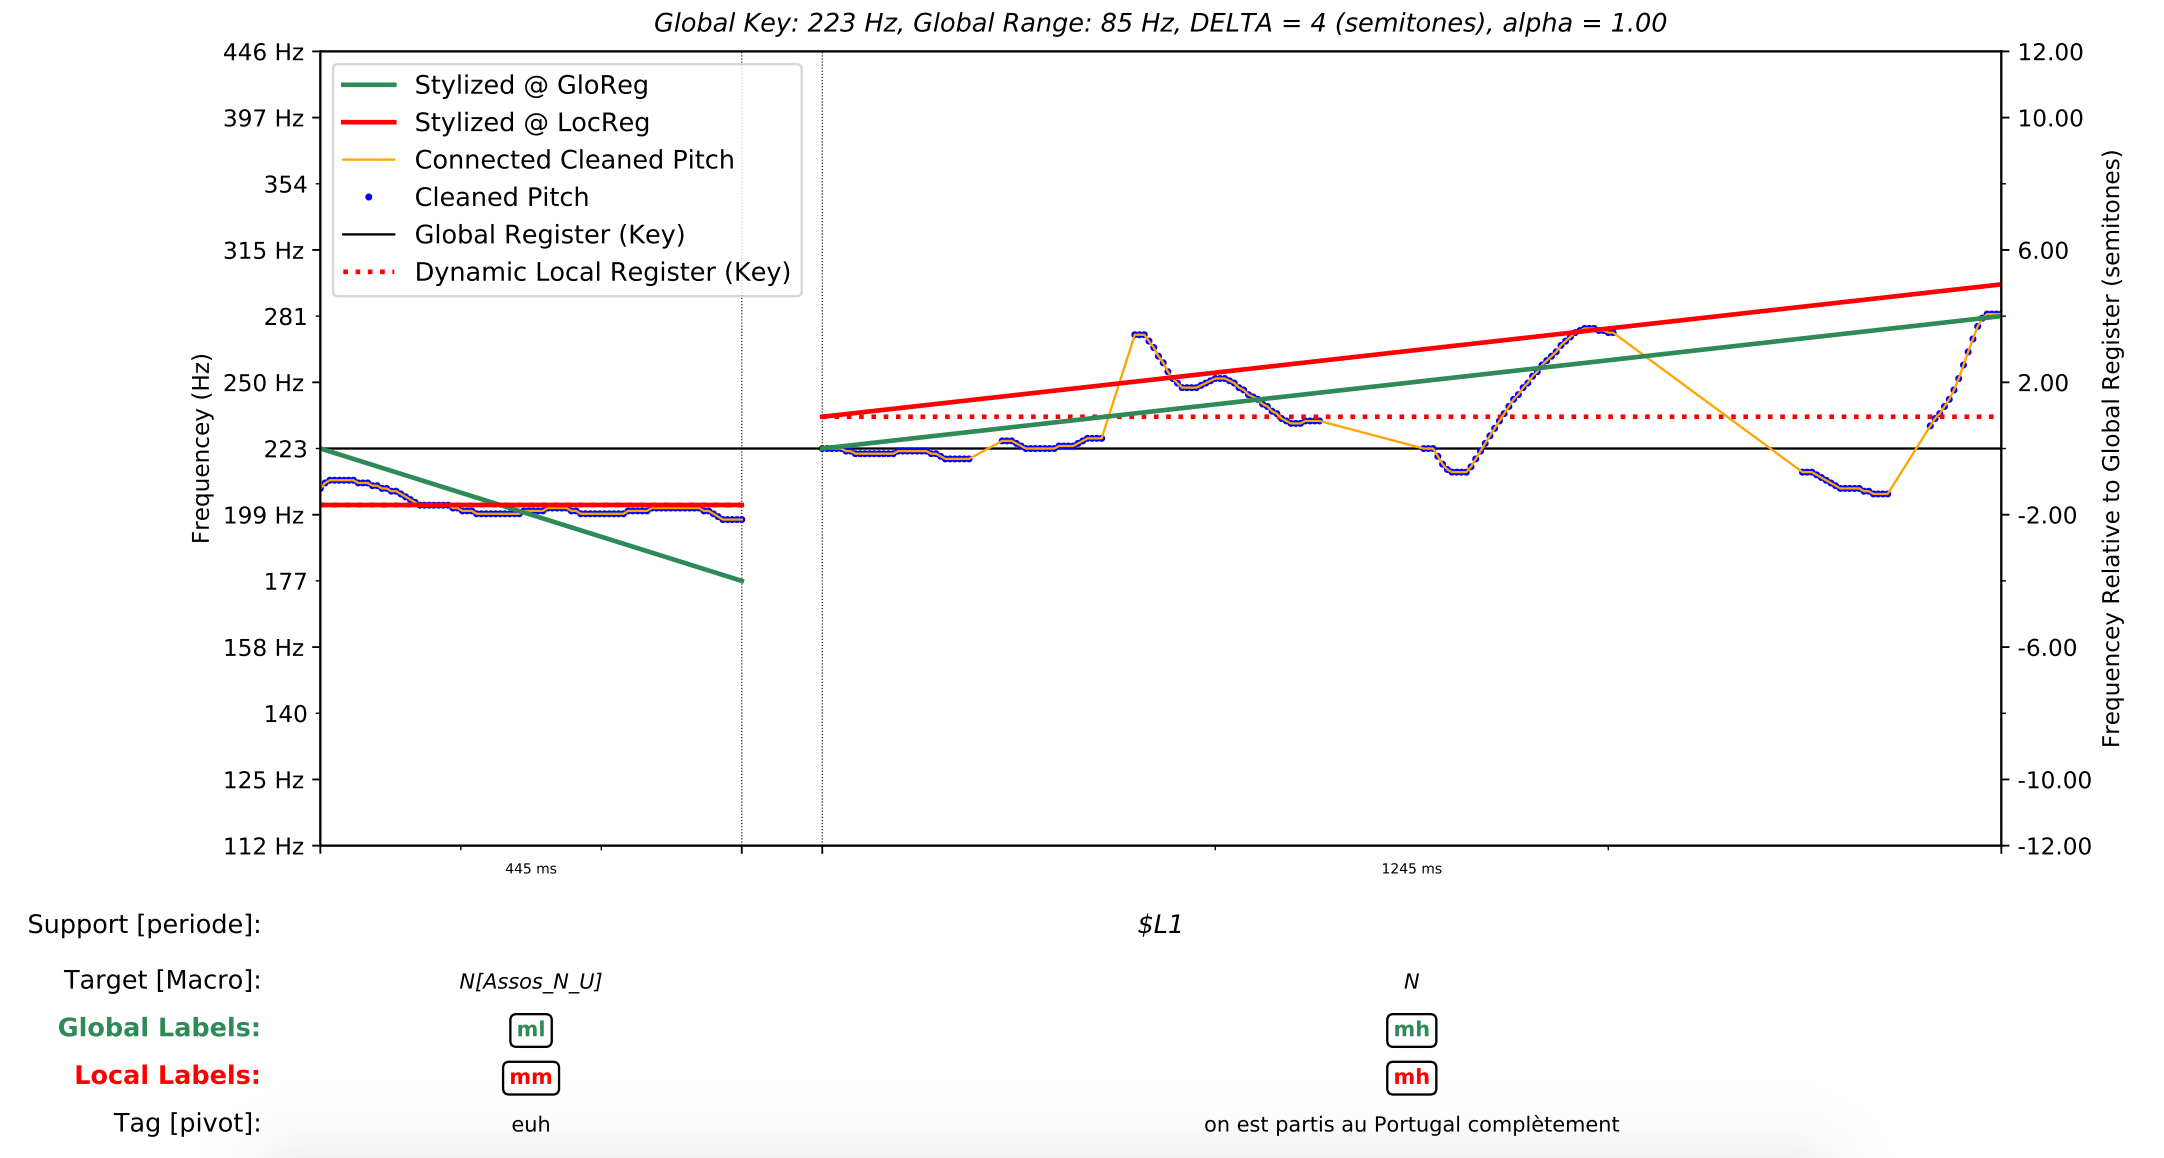
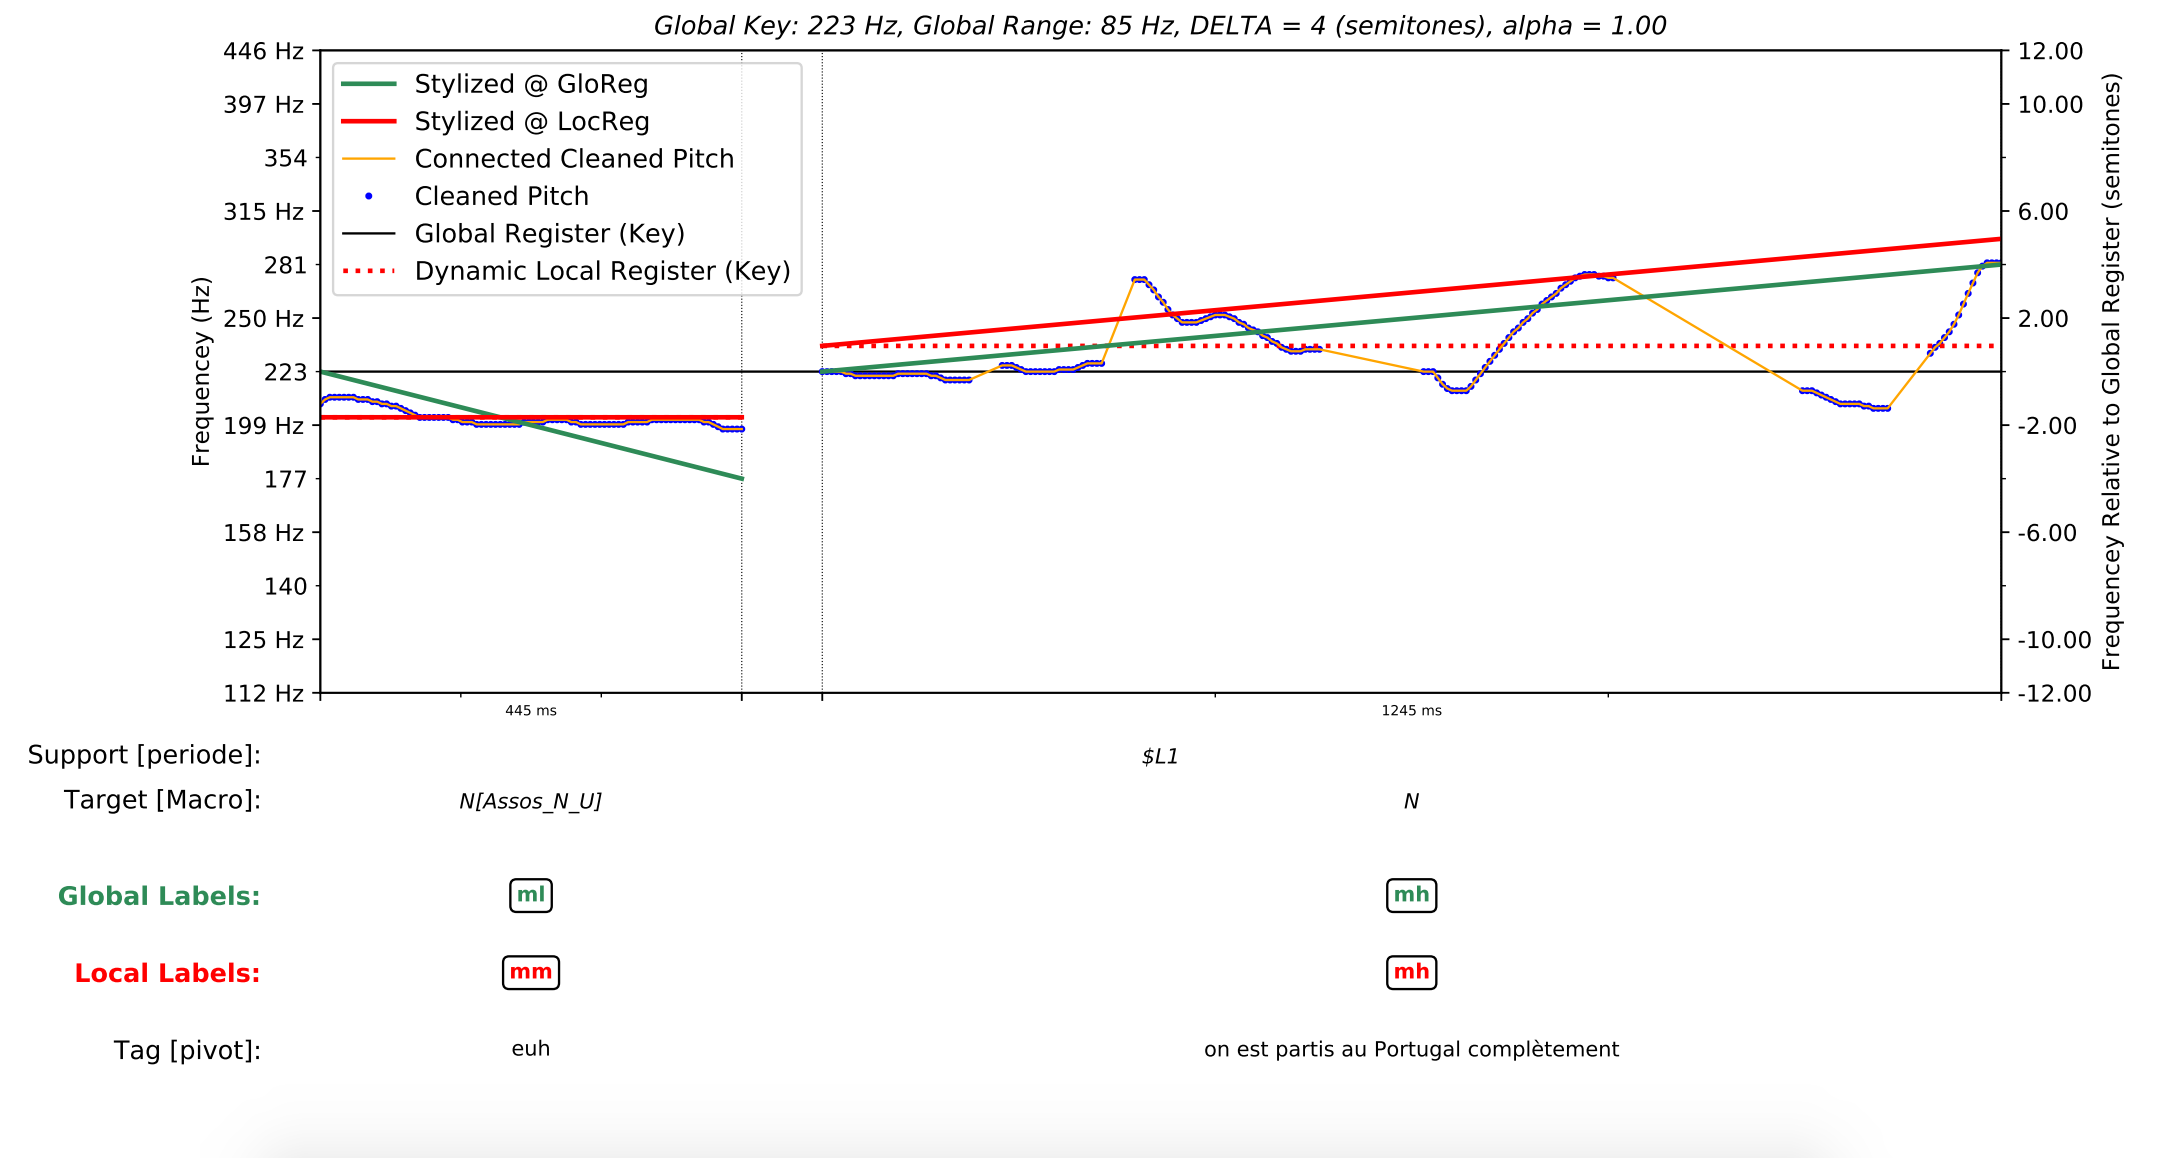
add very naive auto-wrap in label of figures

diff --git a/SLAM_utils/stylize.py b/SLAM_utils/stylize.py
@@ -6,7 +6,7 @@ import numpy as np
 import SLAM_utils.TextGrid as tg
 from SLAM_utils import praatUtil
 from SLAM_utils import swipe
-import os, math, sys
+import os, math, sys, textwrap
 
 
 minDELTA=4
@@ -119,6 +119,7 @@ def show_stylization(time_org,original,smooth,style1,style2,targetIntv,register,
     alphaGlo = alpha
     alphaLoc = alpha
     bbox_props = dict(boxstyle="round", fc="w")
+    
     
     fig = figIn
     ax = fig.gca()
@@ -354,7 +355,7 @@ def show_stylization(time_org,original,smooth,style1,style2,targetIntv,register,
     if is_new_support:
           ax.set_ylabel('Frequencey (Hz)')
     
-    fig.subplots_adjust(top=0.95,bottom=0.27,left=0.15, right=0.925)
+    fig.subplots_adjust(top=0.95,bottom=0.4,left=0.15, right=0.925)
     xlim=ax.get_xlim()
     diff_xlim = max(xlim)-min(xlim)
     diff_ylim = max(ylim)-min(ylim)
@@ -364,10 +365,12 @@ def show_stylization(time_org,original,smooth,style1,style2,targetIntv,register,
     labelsLeftPos = -0.03
     
     # duration label
-    ax.annotate('{:.0f} ms'.format(xticks_major[-1]-xticks_major[0]),xy=(x2/2+x1/2,-0.035),xycoords='axes fraction',fontsize=6,horizontalalignment='center')
+    duration = (xticks_major[-1]-xticks_major[0])
+    new_w = int(math.floor(duration / 10 / 2.5))
+    ax.annotate('{:.0f} ms'.format(duration),xy=(x2/2+x1/2,-0.035),xycoords='axes fraction',fontsize=6,horizontalalignment='center')
     if is_new_support:
        # support label
-       ax.annotate(supp_mark,xy=(0.5,-0.13+.04-0.02),xycoords=('axes fraction','axes fraction'),fontsize=11,fontweight='medium',horizontalalignment='center',fontstyle='italic', wrap=True)
+       ax.annotate(supp_mark,xy=(0.5,-0.13+.04-0.02),xycoords=('axes fraction','axes fraction'),fontsize=9,fontweight='medium',horizontalalignment='center',fontstyle='italic', wrap=True)
        SupportLabel = 'Support'
        if supportName: SupportLabel+=' [{}]'.format(supportName)
        SupportLabel += ': '
@@ -375,31 +378,35 @@ def show_stylization(time_org,original,smooth,style1,style2,targetIntv,register,
        fontweight='normal',horizontalalignment='right',fontstyle='normal', wrap=True)
     
     # target label
-    ax.annotate(targetIntv.mark(),xy=(.5*xticks_major[0]+.5*xticks_major[1],-0.13+.04-0.08-0.01),xycoords=('data','axes fraction'),fontsize=9,fontweight='medium',horizontalalignment='center',fontstyle='italic', wrap=True)
+    txt = textwrap.fill(targetIntv.mark(),new_w)
+    ax.annotate(txt,xy=(.5*xticks_major[0]+.5*xticks_major[1],-0.13+.04-0.08-0.01),xycoords=('data','axes fraction'),fontsize=9,fontweight='medium',horizontalalignment='center',fontstyle='italic', wrap=True)
     if is_new_support:
           TargetLabel = 'Target'
           if targetName: TargetLabel+=' [{}]'.format(targetName)
           TargetLabel += ': '
-          ax.annotate(TargetLabel,xy=(labelsLeftPos,-0.13+.04-0.08-0.01),xycoords=('axes fraction','axes fraction'),fontsize=11,fontweight='normal',horizontalalignment='right',fontstyle='normal')
+          ax.annotate(TargetLabel      ,xy=(labelsLeftPos,-0.13+.04-0.08-0.01)              ,xycoords=('axes fraction','axes fraction'),fontsize=11,fontweight='normal'  ,horizontalalignment='right')
+          #ax.annotate('Global Labels: ',xy=(labelsLeftPos,-0.19+.04+.02-0.08-0.01-0.02-0.06),              xycoords=('axes fraction','axes fraction'),fontsize=11,fontweight='semibold',horizontalalignment='right',color=color_style_styl)
     
     # its stlization in symbolic form
     if is_new_support:
-      ax.annotate('Global Labels: ',xy=(labelsLeftPos,-0.19+.04+.02-0.08-0.01-0.02),xycoords=('axes fraction','axes fraction'),fontsize=11,fontweight='semibold',horizontalalignment='right',color=color_style_styl)
-    ax.annotate(style1,xy=(.5*xticks_major[0]+.5*xticks_major[1],-0.19+.04+.02-0.08-0.01-0.02),xycoords=('data','axes fraction'),fontsize=9,fontweight='semibold',horizontalalignment='center',color=color_style_styl, wrap=True,bbox=bbox_props)
-    txt_style2= style2
+          ax.annotate('Global Labels: ',xy=(labelsLeftPos,-0.19+.04+.02-0.08-0.01-0.02-0.06),xycoords=('axes fraction','axes fraction'),fontsize=11,fontweight='semibold',horizontalalignment='right',color=color_style_styl,verticalalignment='top')
+    ax.annotate(textwrap.fill(style1,new_w),xy=(.5*xticks_major[0]+.5*xticks_major[1],-0.19+.04+.02-0.08-0.01-0.02-0.06),xycoords=('data','axes fraction'),fontsize=9,fontweight='semibold',horizontalalignment='center',color=color_style_styl, wrap=True,bbox=bbox_props,verticalalignment='top')
     if is_new_support:
-      ax.annotate('Local Labels: ',xy=(labelsLeftPos,-0.19+.04+.02-0.08-0.01-0.02-0.06),xycoords=('axes fraction','axes fraction'),fontsize=11,fontweight='semibold',horizontalalignment='right',color=color_style_sty2)
+      ax.annotate('Local Labels: ',xy=(labelsLeftPos,-0.19+.04+.02-0.08-0.01-0.02-0.06-0.06-0.06),xycoords=('axes fraction','axes fraction'),fontsize=11,fontweight='semibold',horizontalalignment='right',color=color_style_sty2,verticalalignment='top')
     
-    ann=ax.annotate(style2,xy=(.5*xticks_major[0]+.5*xticks_major[1],-0.19+.04+.02-0.08-0.01-0.02-0.06),xycoords=('data','axes fraction'),fontsize=9,fontweight='semibold',horizontalalignment='center',color=color_style_sty2, wrap=True,bbox=bbox_props)
-    print(ann.get_bbox_patch().get_extents().width)
-    #ax.annotate(txt_style2,xy=(.5*xticks_major[0]+.5*xticks_major[1],-0.17),xycoords=('data','axes fraction'),fontsize=9,fontweight='semibold',horizontalalignment='center',color=color_style_sty2)
+    ann=ax.annotate(textwrap.fill(style2,new_w),xy=(.5*xticks_major[0]+.5*xticks_major[1],-0.19+.04+.02-0.08-0.01-0.02-0.06-0.06-0.06),xycoords=('data','axes fraction'),fontsize=9,fontweight='semibold',horizontalalignment='center',verticalalignment='top',color=color_style_sty2, wrap=True,bbox=bbox_props)
+    
     if tag:
         if is_new_support:
               TagLabel = 'Tag'
               if tagName: TagLabel+=' [{}]'.format(tagName)
               TagLabel += ': '
-              ax.annotate(TagLabel,xy=(labelsLeftPos,-0.19+.04+.02-0.08-0.01-0.02-0.06-0.06),xycoords=('axes fraction','axes fraction'),fontsize=11,fontweight='normal',horizontalalignment='right',color='black')
-        ax.annotate(tag,xy=(.5*xticks_major[0]+.5*xticks_major[1],-0.19+.04+.02-0.08-0.01-0.02-0.06-0.06),xycoords=('data','axes fraction'),fontsize=9,fontweight='normal',horizontalalignment='center',color='black')
+              ax.annotate(TagLabel,xy=(labelsLeftPos,-0.19+.04+.02-0.08-0.01-0.02-0.06-0.06-0.06-0.06-0.06),xycoords=('axes fraction','axes fraction'),fontsize=11,fontweight='normal',horizontalalignment='right',color='black',verticalalignment='top')
+        ann=ax.annotate(textwrap.fill(tag,new_w),xy=(.5*xticks_major[0]+.5*xticks_major[1],-0.19+.04+.02-0.08-0.01-0.02-0.06-0.06-0.06-0.06-0.06 ),xycoords=('data','axes fraction'),fontsize=9,fontweight='normal',horizontalalignment='center',verticalalignment='top',color='black')
+        
+        
+       
+        
 
     """
     # grid relative to local regster in bleu lines
@@ -449,7 +456,13 @@ def show_stylization(time_org,original,smooth,style1,style2,targetIntv,register,
        #'Significtive Main Saliency on Smoothed Pitch'\
        ],fontsize=11)
        
+      
+    #new_text = textwrap.fill(ann.get_text(),new_w)
+    #print(new_w, new_text)
+    #ann.set_text(new_text)
+          
     # let us make the figure!
+    #fig.canvas.mpl_connect('draw_event', on_draw)
     return fig
 
 def stylizeObject(targetIntv,supportIntvs,inputPitch,alpha,stylizeFunction1=SLAM1):
